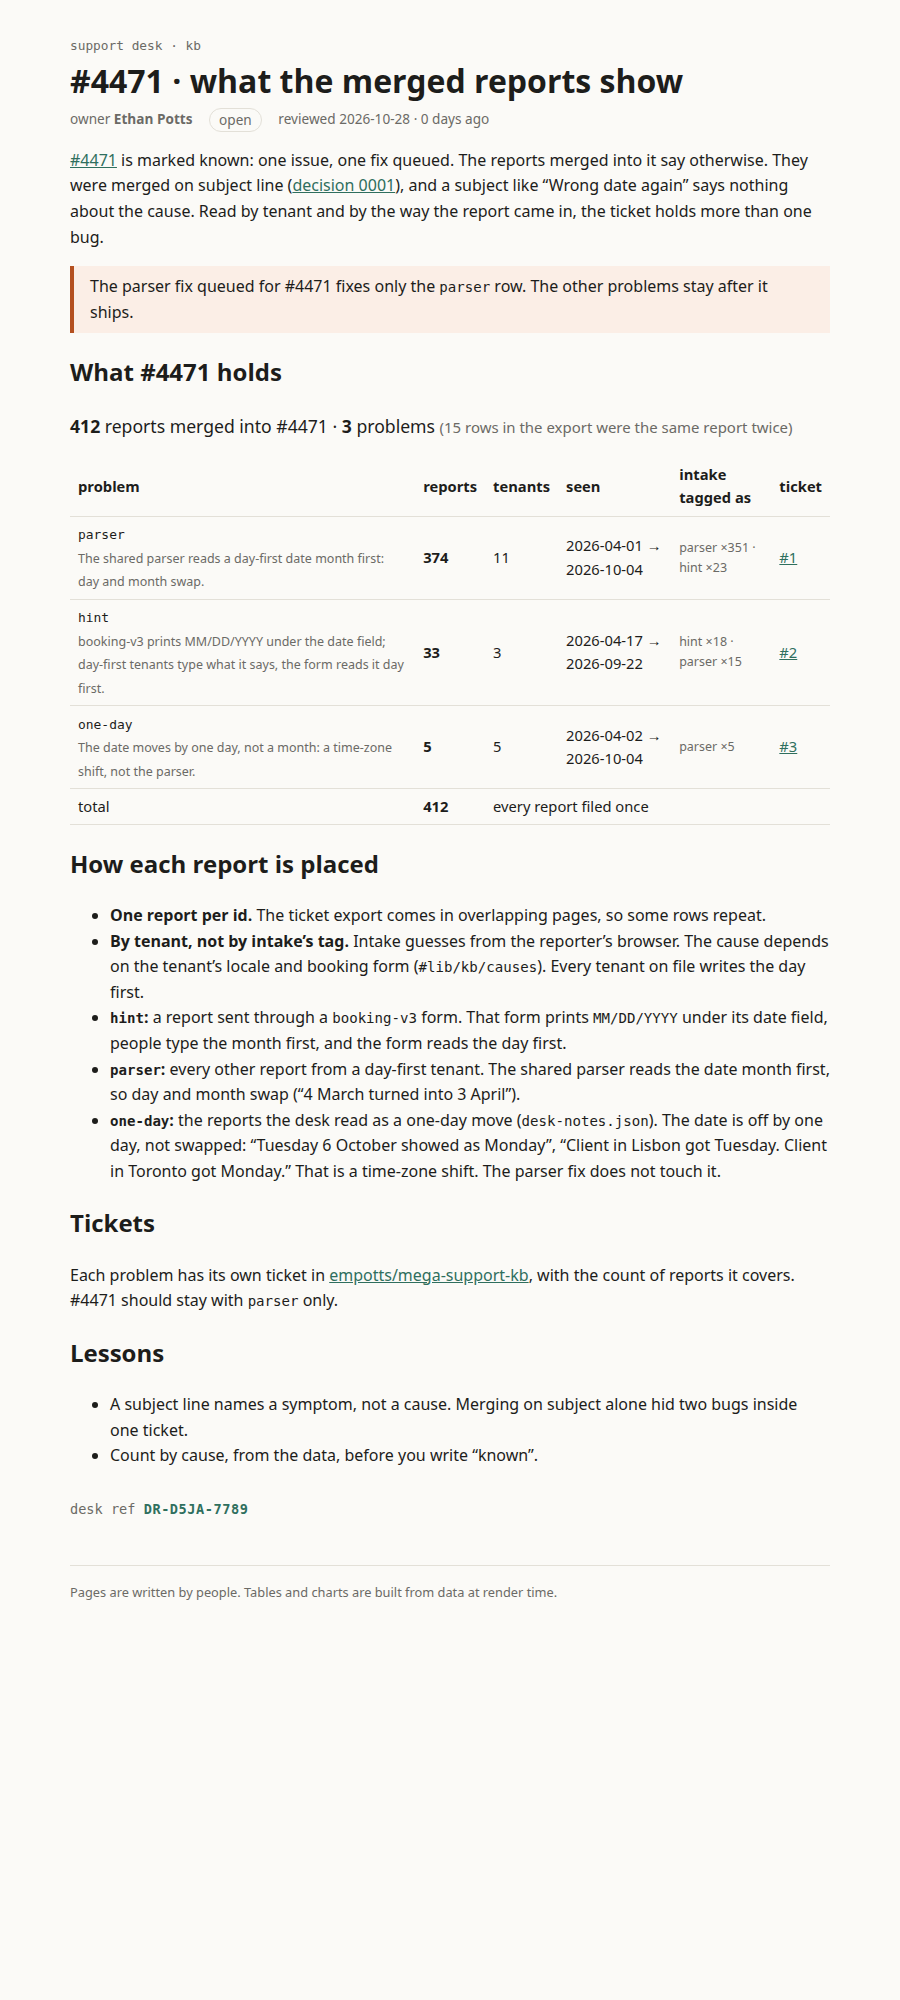
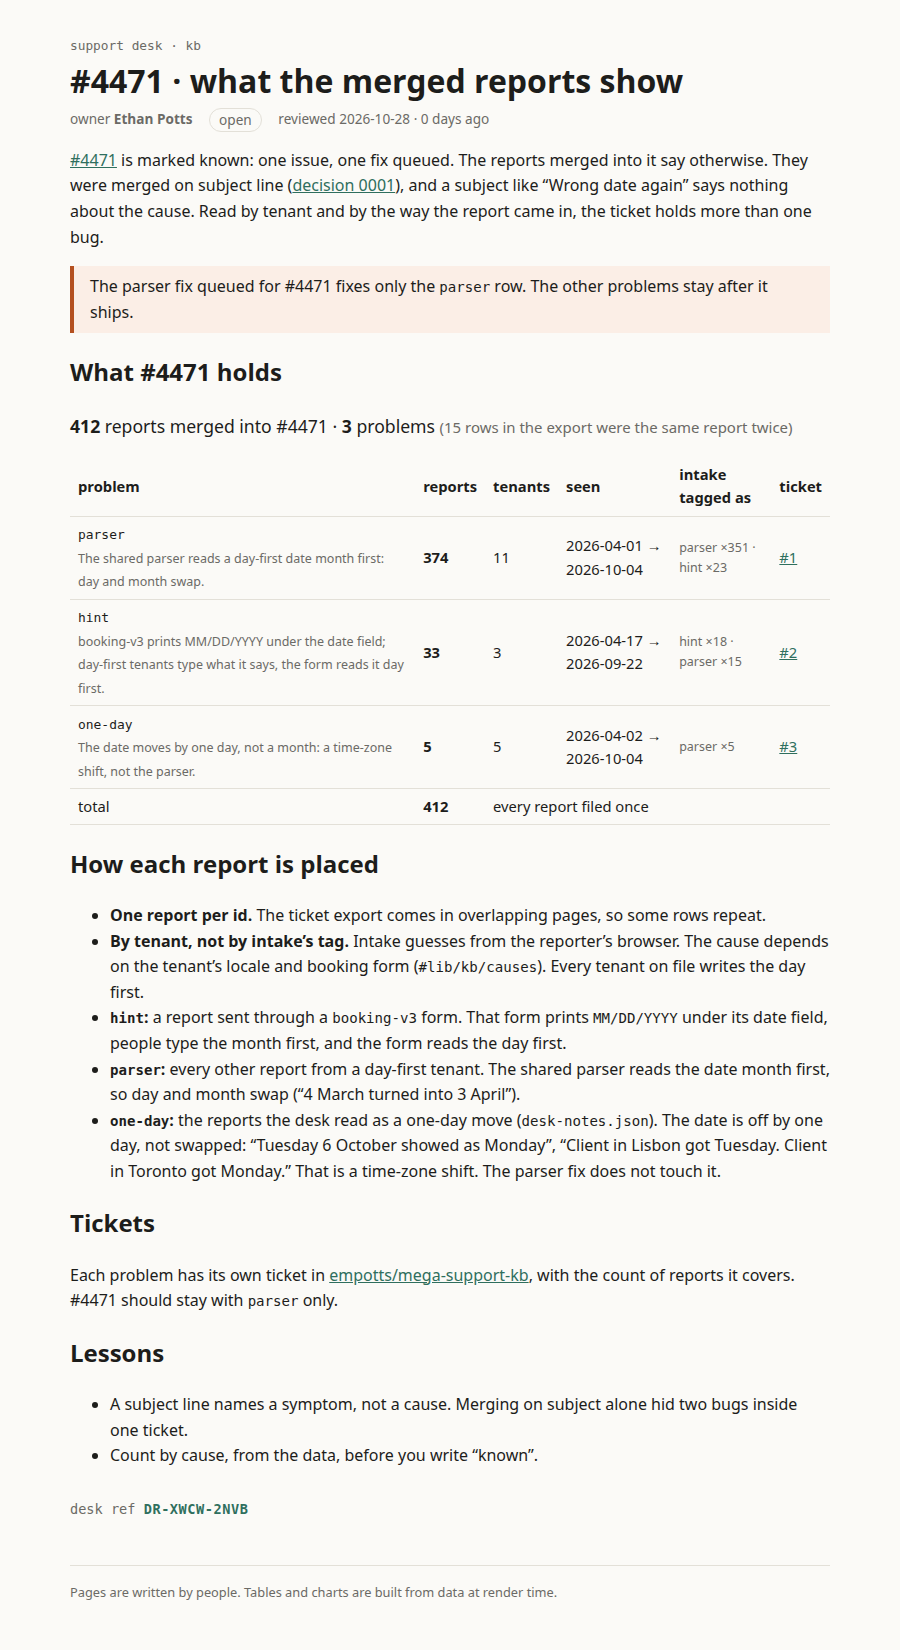
Sign the #4471 problems page with the repo owner's GitHub login

diff --git a/rendered/_app/immutable/chunks/DYkO_qRq.js b/rendered/_app/immutable/chunks/DYkO_qRq.js
@@ -1,0 +1,11 @@
+import{t as e}from"./DK3Fl9T5.js";import{E as t,F as n,H as r,I as i,K as a,L as o,N as s,R as c,S as l,T as u,U as d,W as f,_ as p,c as m,d as h,h as g,k as _,q as v,r as y,t as b,w as x}from"./BCPXOG7W.js";import{t as S}from"./BTPwLomz.js";import{n as C,t as w}from"./CVBzP17p.js";import{i as T,l as E,r as D,t as O}from"./BIy4WKJS.js";var k={parser:`The shared parser reads a day-first date month first: day and month swap.`,hint:`booking-v3 prints MM/DD/YYYY under the date field; day-first tenants type what it says, the form reads it day first.`,"one-day":`The date moves by one day, not a month: a time-zone shift, not the parser.`,unplaced:`No tenant on file, or a month-first tenant: no cause yet.`};function A(e,t){return t.includes(e.id)?`one-day`:T(e,D(e))??`unplaced`}function j(e,t,n){let r=new Map;for(let i of E(e).filter(e=>e.mergedInto===t)){let e=A(i,n);r.set(e,[...r.get(e)??[],i])}return[...r.entries()].map(([e,t])=>{let n=t.map(e=>e.receivedAt.slice(0,10)).sort();return{problem:e,reports:t,tenants:new Set(t.map(e=>e.tenant)).size,firstSeen:n[0],lastSeen:n[n.length-1],taggedAs:t.reduce((e,t)=>({...e,[t.meta.intakeTag]:(e[t.meta.intakeTag]??0)+1}),{})}}).sort((e,t)=>t.reports.length-e.reports.length)}var M={parser:1,hint:2,"one-day":3},N=t(`<a> </a>`),P=t(`<span class="none svelte-1op6c6">no ticket</span>`),F=t(`<tr><td><code> </code><br/><small class="svelte-1op6c6"> </small></td><td><strong> </strong></td><td> </td><td> </td><td class="tags svelte-1op6c6"> </td><td><!></td></tr>`),I=t(`<p class="sum svelte-1op6c6"><strong> </strong> <strong> </strong> <span class="dup svelte-1op6c6"> </span></p> <table><thead><tr><th>problem</th><th>reports</th><th>tenants</th><th>seen</th><th>intake tagged as</th><th>ticket</th></tr></thead><tbody></tbody><tfoot><tr><td>total</td><td><strong> </strong></td><td colspan="4"> </td></tr></tfoot></table>`,1);function L(e,t){f(t,!0);let a=r(()=>C),u=r(()=>E(_(a)).filter(e=>e.mergedInto===t.ticket)),y=r(()=>j(_(a),t.ticket,w.oneDayMove)),b=r(()=>_(y).reduce((e,t)=>e+t.reports.length,0)),S=e=>Object.entries(e.taggedAs).sort((e,t)=>t[1]-e[1]).map(([e,t])=>`${e} ×${t}`).join(` · `);var T=I(),D=i(T),O=n(D),A=o(O,!0),L=c(O),R=c(L),z=o(R,!0),B=c(R),V=c(B),H=o(V);v(D);var U=c(D,2),W=c(n(U));g(W,21,()=>_(y),e=>e.problem,(e,t)=>{let i=r(()=>M[_(t).problem]);var a=F(),u=n(a),d=n(u),f=o(d,!0),h=c(d,2),g=o(h,!0);v(u);var y=c(u),b=n(y),C=o(b,!0);v(y);var w=c(y),T=o(w,!0),E=c(w),D=o(E),O=c(E),A=o(O,!0),j=c(O),I=n(j),L=e=>{var t=N(),n=o(t);s(()=>{m(t,`href`,`https://github.com/empotts/mega-support-kb/issues/${_(i)??``}`),l(n,`#${_(i)??``}`)}),x(e,t)},R=e=>{var t=P();x(e,t)};p(I,e=>{_(i)?e(L):e(R,-1)}),v(j),v(a),s(e=>{l(f,_(t).problem),l(g,k[_(t).problem]),l(C,_(t).reports.length),l(T,_(t).tenants),l(D,`${_(t).firstSeen??``} → ${_(t).lastSeen??``}`),l(A,e)},[()=>S(_(t))]),x(e,a)}),v(W);var G=c(W),K=n(G),q=c(n(K)),J=n(q),Y=o(J,!0);v(q);var X=c(q);let Z;var Q=o(X,!0);v(K),v(G),v(U),s(()=>{l(A,_(u).length),l(L,` reports merged into #${t.ticket??``} · `),l(z,_(y).length),l(B,` ${_(y).length===1?`problem`:`problems`} `),l(H,`(${_(a).length-_(u).length} rows in the export were the same report twice)`),l(Y,_(b)),Z=h(X,1,`svelte-1op6c6`,null,Z,{none:_(b)!==_(u).length}),l(Q,_(b)===_(u).length?`every report filed once`:`${_(u).length-_(b)} reports missing`)}),x(e,T),d()}var R=`0123456789ABCDEFGHJKMNPQRSTVWXYZ`;function z(e,t){let n=t>>>0;for(let t=0;t<e.length;t++)n^=e.charCodeAt(t),n=Math.imul(n,16777619)>>>0;return n}function B(e){let t=e.trim(),n=z(t,2166136261),r=z(t,2654435769),i=BigInt(n)<<8n|BigInt(r&255),a=``;for(let e=0;e<8;e++)a=R[Number(i&31n)]+a,i>>=5n;return`DR-${a.slice(0,4)}-${a.slice(4)}`}var V=t(`<p class="stamp svelte-1280m42">desk ref <b class="svelte-1280m42"> </b></p>`),H=t(`<p class="stamp missing svelte-1280m42">no desk ref: this page isn't signed (no <code>signature</code> in its frontmatter)</p>`);function U(e,t){f(t,!0);let a=r(()=>t.signature?B(t.signature):null);var m=u(),h=i(m),g=e=>{var t=V(),r=c(n(t)),i=o(r,!0);v(t),s(()=>l(i,_(a))),x(e,t)},y=e=>{var t=H();x(e,t)};p(h,e=>{_(a)?e(g):e(y,-1)}),x(e,m),d()}var W=e({default:()=>$,metadata:()=>G}),G={layout:`runbook`,title:`#4471 · what the merged reports show`,owner:`Ethan Potts`,status:`open`,reviewed:`2026-10-28T00:00:00.000Z`,signature:`empotts`},{layout:K,title:q,owner:J,status:Y,reviewed:X,signature:Z}=G,Q=t(`The parser fix queued for #4471 fixes only the <code>parser</code> row. The other problems stay
+after it ships.`,1),ee=t(`<p><a href="/kb/incidents/4471">#4471</a> is marked known: one issue, one fix queued. The reports merged into it
+say otherwise. They were merged on subject line (<a href="/kb/decisions/0001-dedupe-by-subject">decision 0001</a>),
+and a subject like “Wrong date again” says nothing about the cause. Read by tenant and by the way the
+report came in, the ticket holds more than one bug.</p> <!> <h2>What #4471 holds</h2> <!> <h2>How each report is placed</h2> <ul><li><strong>One report per id.</strong> The ticket export comes in overlapping pages, so some rows repeat.</li> <li><strong>By tenant, not by intake’s tag.</strong> Intake guesses from the reporter’s browser. The cause depends
+on the tenant’s locale and booking form (<code>#lib/kb/causes</code>). Every tenant on file writes the day first.</li> <li><strong><code>hint</code>:</strong> a report sent through a <code>booking-v3</code> form. That form prints <code>MM/DD/YYYY</code> under its
+date field, people type the month first, and the form reads the day first.</li> <li><strong><code>parser</code>:</strong> every other report from a day-first tenant. The shared parser reads the date month
+first, so day and month swap (“4 March turned into 3 April”).</li> <li><strong><code>one-day</code>:</strong> the reports the desk read as a one-day move (<code>desk-notes.json</code>). The date is off by
+one day, not swapped: “Tuesday 6 October showed as Monday”, “Client in Lisbon got Tuesday. Client
+in Toronto got Monday.” That is a time-zone shift. The parser fix does not touch it.</li></ul> <h2>Tickets</h2> <p>Each problem has its own ticket in <a href="https://github.com/empotts/mega-support-kb/issues" rel="nofollow">empotts/mega-support-kb</a>,
+with the count of reports it covers. #4471 should stay with <code>parser</code> only.</p> <h2>Lessons</h2> <ul><li>A subject line names a symptom, not a cause. Merging on subject alone hid two bugs inside one ticket.</li> <li>Count by cause, from the data, before you write “known”.</li></ul> <!>`,1);function $(e,t){let n=b(t,[`children`,`$$slots`,`$$events`,`$$legacy`]);S(e,y(()=>n,()=>G,{children:(e,t)=>{var n=ee(),r=c(i(n),2);O(r,{kind:`warn`,children:(e,t)=>{a();var n=Q();a(2),x(e,n)},$$slots:{default:!0}});var o=c(r,4);L(o,{ticket:4471}),U(c(o,14),{get signature(){return Z}}),x(e,n)},$$slots:{default:!0}}))}export{$ as n,W as t};

diff --git a/rendered/kb/incidents/4471-problems.html b/rendered/kb/incidents/4471-problems.html
@@ -11,11 +11,11 @@
 		<link href="../../_app/immutable/chunks/Dek69VGa.js" rel="modulepreload">
 		<link href="../../_app/immutable/chunks/8Cldv7_F.js" rel="modulepreload">
 		<link href="../../_app/immutable/chunks/Cg3pm-K7.js" rel="modulepreload">
-		<link href="../../_app/immutable/entry/app.CpHySrE1.js" rel="modulepreload">
+		<link href="../../_app/immutable/entry/app.BVk-nxTU.js" rel="modulepreload">
 		<link href="../../_app/immutable/nodes/0.C9KfiiPz.js" rel="modulepreload">
 		<link href="../../_app/immutable/chunks/DK3Fl9T5.js" rel="modulepreload">
-		<link href="../../_app/immutable/nodes/6.BWVnTNaD.js" rel="modulepreload">
-		<link href="../../_app/immutable/chunks/r9ZojTQG.js" rel="modulepreload">
+		<link href="../../_app/immutable/nodes/6.BXMxKEzg.js" rel="modulepreload">
+		<link href="../../_app/immutable/chunks/DYkO_qRq.js" rel="modulepreload">
 		<link href="../../_app/immutable/chunks/BTPwLomz.js" rel="modulepreload">
 		<link href="../../_app/immutable/chunks/CVBzP17p.js" rel="modulepreload">
 		<link href="../../_app/immutable/chunks/BIy4WKJS.js" rel="modulepreload">
@@ -35,20 +35,20 @@ date field, people type the month first, and the form reads the day first.</li> 
 first, so day and month swap (“4 March turned into 3 April”).</li> <li><strong><code>one-day</code>:</strong> the reports the desk read as a one-day move (<code>desk-notes.json</code>). The date is off by
 one day, not swapped: “Tuesday 6 October showed as Monday”, “Client in Lisbon got Tuesday. Client
 in Toronto got Monday.” That is a time-zone shift. The parser fix does not touch it.</li></ul> <h2>Tickets</h2> <p>Each problem has its own ticket in <a href="https://github.com/empotts/mega-support-kb/issues" rel="nofollow">empotts/mega-support-kb</a>,
-with the count of reports it covers. #4471 should stay with <code>parser</code> only.</p> <h2>Lessons</h2> <ul><li>A subject line names a symptom, not a cause. Merging on subject alone hid two bugs inside one ticket.</li> <li>Count by cause, from the data, before you write “known”.</li></ul> <!--[0--><p class="stamp svelte-1280m42">desk ref <b class="svelte-1280m42">DR-D5JA-7789</b></p><!--]--><!----><!----></main> <footer class="svelte-e2jw2j">Pages are written by people. Tables and charts are built from data at render time.</footer></div><!--]--><!--]--><!--]--><!----><!--]--><!--]--><!--]--><!----> <!--[-1--><!--]--><!--]-->
+with the count of reports it covers. #4471 should stay with <code>parser</code> only.</p> <h2>Lessons</h2> <ul><li>A subject line names a symptom, not a cause. Merging on subject alone hid two bugs inside one ticket.</li> <li>Count by cause, from the data, before you write “known”.</li></ul> <!--[0--><p class="stamp svelte-1280m42">desk ref <b class="svelte-1280m42">DR-XWCW-2NVB</b></p><!--]--><!----><!----></main> <footer class="svelte-e2jw2j">Pages are written by people. Tables and charts are built from data at render time.</footer></div><!--]--><!--]--><!--]--><!----><!--]--><!--]--><!--]--><!----> <!--[-1--><!--]--><!--]-->
 			
 			<script>
 				{
-					__sveltekit_o9qarf = {
+					__sveltekit_idelb3 = {
 						base: new URL("../..", location).pathname.slice(0, -1),
-						version: "1793164941519"
+						version: "1793165051231"
 					};
 
 					const element = document.currentScript.parentElement;
 
 					import("../../_app/immutable/entry/start.B795J-Jn.js").then(async (kit) => {
-						kit.init(__sveltekit_o9qarf);
-						const app = await import("../../_app/immutable/entry/app.CpHySrE1.js");
+						kit.init(__sveltekit_idelb3);
+						const app = await import("../../_app/immutable/entry/app.BVk-nxTU.js");
 						kit.start(app, element, {
 							node_ids: [0, 6],
 							data: [null,null],

diff --git a/rendered/_app/immutable/entry/app.BVk-nxTU.js b/rendered/_app/immutable/entry/app.BVk-nxTU.js
@@ -1,0 +1,2 @@
+const __vite__mapDeps=(i,m=__vite__mapDeps,d=(m.f||(m.f=["../nodes/0.C9KfiiPz.js","../chunks/DK3Fl9T5.js","../chunks/BCPXOG7W.js","../nodes/1.YvnBx2JG.js","../chunks/8Cldv7_F.js","./payload.DSmR2FwN.js","../chunks/Dek69VGa.js","../nodes/2.CRWkCUU4.js","../chunks/Cg3pm-K7.js","../nodes/3.P6pfWO1j.js","../chunks/BTPwLomz.js","../assets/runbook.COyw0cbZ.css","../chunks/YX22L_Ud.js","../chunks/CgeRC4yK.js","../chunks/CVBzP17p.js","../chunks/BIy4WKJS.js","../assets/Callout.AbLv9dM_.css","../assets/_page.D56XP2ro.css","../chunks/DYkO_qRq.js","../assets/_page.DeeSPHpo.css","../chunks/BGqJVSDw.js","../assets/_page.DO6Yid7X.css","../assets/3.Bt0MwIZg.css","../nodes/4.DRxPfvn3.js","../nodes/5.rt2PfD_4.js","../nodes/6.BXMxKEzg.js","../nodes/7.sFtxrtyV.js"])))=>i.map(i=>d[i]);
+import{t as e}from"../chunks/CRzLMJPS.js";var t={},n=[()=>e(()=>import(`../nodes/0.C9KfiiPz.js`),__vite__mapDeps([0,1,2]),import.meta.url),()=>e(()=>import(`../nodes/1.YvnBx2JG.js`),__vite__mapDeps([3,2,4,5,6]),import.meta.url),()=>e(()=>import(`../nodes/2.CRWkCUU4.js`),__vite__mapDeps([7,1,6,8]),import.meta.url),()=>e(()=>import(`../nodes/3.P6pfWO1j.js`),__vite__mapDeps([9,2,10,11,12,1,13,14,15,16,17,18,19,20,21,22]),import.meta.url),()=>e(()=>import(`../nodes/4.DRxPfvn3.js`),__vite__mapDeps([23,12,1,2,10,11]),import.meta.url),()=>e(()=>import(`../nodes/5.rt2PfD_4.js`),__vite__mapDeps([24,13,1,2,10,11,14,15,16,17]),import.meta.url),()=>e(()=>import(`../nodes/6.BXMxKEzg.js`),__vite__mapDeps([25,18,1,2,10,11,14,15,16,19]),import.meta.url),()=>e(()=>import(`../nodes/7.sFtxrtyV.js`),__vite__mapDeps([26,20,1,2,10,11,15,16,21]),import.meta.url)],r=[],i={"/":[2],"/kb":[3],"/kb/decisions/0001-dedupe-by-subject":[4],"/kb/incidents/4471-problems":[6],"/kb/incidents/4471":[5],"/kb/triage/dedupe":[7]},a={handleError:(({kind:e,error:t})=>{e===`unknown`&&console.error(t)}),reroute:(()=>{}),transport:{}},o=Object.fromEntries(Object.entries(a.transport).map(([e,t])=>[e,t.decode])),s=Object.fromEntries(Object.entries(a.transport).map(([e,t])=>[e,t.encode])),c=!1,l=(e,t)=>o[e](t),u=()=>e(()=>import(`../chunks/Bjy-W4x2.js`).then(e=>e.default),[],import.meta.url);export{l as decode,o as decoders,i as dictionary,s as encoders,u as get_error_template,c as hash,a as hooks,t as matchers,n as nodes,r as server_loads};

diff --git a/rendered/_app/immutable/nodes/3.P6pfWO1j.js b/rendered/_app/immutable/nodes/3.P6pfWO1j.js
@@ -1,0 +1,2 @@
+import{E as e,F as t,I as n,K as r,L as i,N as a,R as o,S as s,U as c,W as l,c as u,d,h as f,i as p,k as m,q as h,r as g,t as _,w as v}from"../chunks/BCPXOG7W.js";import{n as y,r as b,t as x}from"../chunks/BTPwLomz.js";import{t as S}from"../chunks/YX22L_Ud.js";import{t as C}from"../chunks/CgeRC4yK.js";import{t as w}from"../chunks/DYkO_qRq.js";import{t as T}from"../chunks/BGqJVSDw.js";var E=e(`<tr><td><a> </a></td><td> </td><td> </td><td> </td></tr>`),D=e(`<table><thead><tr><th>page</th><th>owner</th><th>status</th><th>reviewed</th></tr></thead><tbody></tbody></table>`);function O(e,n){l(n,!1);let r=Object.entries(Object.assign({"/src/routes/kb/decisions/0001-dedupe-by-subject/+page.svx":S,"/src/routes/kb/incidents/4471/+page.svx":C,"/src/routes/kb/incidents/4471-problems/+page.svx":w,"/src/routes/kb/triage/dedupe/+page.svx":T})).map(([e,t])=>({href:e.replace(`/src/routes`,``).replace(`/+page.svx`,``),...t.metadata})).sort((e,t)=>e.href.localeCompare(t.href));p();var g=D(),_=o(t(g));f(_,5,()=>r,e=>e.href,(e,n)=>{var r=E(),c=t(r),l=t(c),f=i(l,!0);h(c);var p=o(c),g=i(p,!0),_=o(p),x=i(_,!0),S=o(_);let C;var w=i(S,!0);h(r),a((e,t)=>{u(l,`href`,m(n).href),s(f,m(n).title),s(g,m(n).owner),s(x,m(n).status),C=d(S,1,`svelte-tbc1ha`,null,C,{stale:e}),s(w,t)},[()=>y(m(n).reviewed)>180,()=>b(m(n).reviewed)]),v(e,r)}),h(_),h(g),v(e,g),c()}var k={layout:`runbook`,title:`Support knowledge base`,owner:`support desk`,status:`living`,reviewed:`2026-09-28T00:00:00.000Z`},{layout:A,title:j,owner:M,status:N,reviewed:P}=k,F=e(`<p>What the support desk knows, kept next to the code that knows it. One desk, every product: <code>sched-prod</code> (calendar invites for about 300k people) and the rest. When something breaks, the reports land here first.</p> <p>Start with <a href="/kb/triage/dedupe">triage</a> if you are new on the desk.</p> <h2>Pages</h2> <!> <h2>Writing a page</h2> <p>Keep the words here and the logic in <code>src/lib</code>. A number that can be computed should be
+computed by a component, not typed into a paragraph.</p>`,1);function I(e,t){let i=_(t,[`children`,`$$slots`,`$$events`,`$$legacy`]);x(e,g(()=>i,()=>k,{children:(e,t)=>{var i=F();O(o(n(i),6),{}),r(4),v(e,i)},$$slots:{default:!0}}))}export{I as component};

diff --git a/rendered/kb.html b/rendered/kb.html
@@ -11,16 +11,16 @@
 		<link href="./_app/immutable/chunks/Dek69VGa.js" rel="modulepreload">
 		<link href="./_app/immutable/chunks/8Cldv7_F.js" rel="modulepreload">
 		<link href="./_app/immutable/chunks/Cg3pm-K7.js" rel="modulepreload">
-		<link href="./_app/immutable/entry/app.CpHySrE1.js" rel="modulepreload">
+		<link href="./_app/immutable/entry/app.BVk-nxTU.js" rel="modulepreload">
 		<link href="./_app/immutable/nodes/0.C9KfiiPz.js" rel="modulepreload">
 		<link href="./_app/immutable/chunks/DK3Fl9T5.js" rel="modulepreload">
-		<link href="./_app/immutable/nodes/3.D148B8ve.js" rel="modulepreload">
+		<link href="./_app/immutable/nodes/3.P6pfWO1j.js" rel="modulepreload">
 		<link href="./_app/immutable/chunks/BTPwLomz.js" rel="modulepreload">
 		<link href="./_app/immutable/chunks/YX22L_Ud.js" rel="modulepreload">
 		<link href="./_app/immutable/chunks/CgeRC4yK.js" rel="modulepreload">
 		<link href="./_app/immutable/chunks/CVBzP17p.js" rel="modulepreload">
 		<link href="./_app/immutable/chunks/BIy4WKJS.js" rel="modulepreload">
-		<link href="./_app/immutable/chunks/r9ZojTQG.js" rel="modulepreload">
+		<link href="./_app/immutable/chunks/DYkO_qRq.js" rel="modulepreload">
 		<link href="./_app/immutable/chunks/BGqJVSDw.js" rel="modulepreload">
 		<!--e2jw2j--><!----><title>Support knowledge base · support kb</title>
 		<link href="./_app/immutable/assets/runbook.COyw0cbZ.css" rel="stylesheet">
@@ -36,16 +36,16 @@ computed by a component, not typed into a paragraph.</p><!----></main> <footer c
 			
 			<script>
 				{
-					__sveltekit_o9qarf = {
+					__sveltekit_idelb3 = {
 						base: new URL(".", location).pathname.slice(0, -1),
-						version: "1793164941519"
+						version: "1793165051231"
 					};
 
 					const element = document.currentScript.parentElement;
 
 					import("./_app/immutable/entry/start.B795J-Jn.js").then(async (kit) => {
-						kit.init(__sveltekit_o9qarf);
-						const app = await import("./_app/immutable/entry/app.CpHySrE1.js");
+						kit.init(__sveltekit_idelb3);
+						const app = await import("./_app/immutable/entry/app.BVk-nxTU.js");
 						kit.start(app, element, {
 							node_ids: [0, 3],
 							data: [null,null],

diff --git a/rendered/kb/decisions/0001-dedupe-by-subject.html b/rendered/kb/decisions/0001-dedupe-by-subject.html
@@ -11,7 +11,7 @@
 		<link href="../../_app/immutable/chunks/Dek69VGa.js" rel="modulepreload">
 		<link href="../../_app/immutable/chunks/8Cldv7_F.js" rel="modulepreload">
 		<link href="../../_app/immutable/chunks/Cg3pm-K7.js" rel="modulepreload">
-		<link href="../../_app/immutable/entry/app.CpHySrE1.js" rel="modulepreload">
+		<link href="../../_app/immutable/entry/app.BVk-nxTU.js" rel="modulepreload">
 		<link href="../../_app/immutable/nodes/0.C9KfiiPz.js" rel="modulepreload">
 		<link href="../../_app/immutable/chunks/DK3Fl9T5.js" rel="modulepreload">
 		<link href="../../_app/immutable/nodes/4.DRxPfvn3.js" rel="modulepreload">
@@ -28,16 +28,16 @@ engineering merges them later.</li></ul><!----></main> <footer class="svelte-e2j
 			
 			<script>
 				{
-					__sveltekit_o9qarf = {
+					__sveltekit_idelb3 = {
 						base: new URL("../..", location).pathname.slice(0, -1),
-						version: "1793164941519"
+						version: "1793165051231"
 					};
 
 					const element = document.currentScript.parentElement;
 
 					import("../../_app/immutable/entry/start.B795J-Jn.js").then(async (kit) => {
-						kit.init(__sveltekit_o9qarf);
-						const app = await import("../../_app/immutable/entry/app.CpHySrE1.js");
+						kit.init(__sveltekit_idelb3);
+						const app = await import("../../_app/immutable/entry/app.BVk-nxTU.js");
 						kit.start(app, element, {
 							node_ids: [0, 4],
 							data: [null,null],

diff --git a/rendered/kb/incidents/4471.html b/rendered/kb/incidents/4471.html
@@ -11,7 +11,7 @@
 		<link href="../../_app/immutable/chunks/Dek69VGa.js" rel="modulepreload">
 		<link href="../../_app/immutable/chunks/8Cldv7_F.js" rel="modulepreload">
 		<link href="../../_app/immutable/chunks/Cg3pm-K7.js" rel="modulepreload">
-		<link href="../../_app/immutable/entry/app.CpHySrE1.js" rel="modulepreload">
+		<link href="../../_app/immutable/entry/app.BVk-nxTU.js" rel="modulepreload">
 		<link href="../../_app/immutable/nodes/0.C9KfiiPz.js" rel="modulepreload">
 		<link href="../../_app/immutable/chunks/DK3Fl9T5.js" rel="modulepreload">
 		<link href="../../_app/immutable/nodes/5.rt2PfD_4.js" rel="modulepreload">
@@ -31,16 +31,16 @@ first. The fix is queued.</p> <aside class="note svelte-17bri61"><!---->Known. O
 			
 			<script>
 				{
-					__sveltekit_o9qarf = {
+					__sveltekit_idelb3 = {
 						base: new URL("../..", location).pathname.slice(0, -1),
-						version: "1793164941519"
+						version: "1793165051231"
 					};
 
 					const element = document.currentScript.parentElement;
 
 					import("../../_app/immutable/entry/start.B795J-Jn.js").then(async (kit) => {
-						kit.init(__sveltekit_o9qarf);
-						const app = await import("../../_app/immutable/entry/app.CpHySrE1.js");
+						kit.init(__sveltekit_idelb3);
+						const app = await import("../../_app/immutable/entry/app.BVk-nxTU.js");
 						kit.start(app, element, {
 							node_ids: [0, 5],
 							data: [null,null],

diff --git a/rendered/kb/triage/dedupe.html b/rendered/kb/triage/dedupe.html
@@ -11,7 +11,7 @@
 		<link href="../../_app/immutable/chunks/Dek69VGa.js" rel="modulepreload">
 		<link href="../../_app/immutable/chunks/8Cldv7_F.js" rel="modulepreload">
 		<link href="../../_app/immutable/chunks/Cg3pm-K7.js" rel="modulepreload">
-		<link href="../../_app/immutable/entry/app.CpHySrE1.js" rel="modulepreload">
+		<link href="../../_app/immutable/entry/app.BVk-nxTU.js" rel="modulepreload">
 		<link href="../../_app/immutable/nodes/0.C9KfiiPz.js" rel="modulepreload">
 		<link href="../../_app/immutable/chunks/DK3Fl9T5.js" rel="modulepreload">
 		<link href="../../_app/immutable/nodes/7.sFtxrtyV.js" rel="modulepreload">
@@ -31,16 +31,16 @@ anything else.<!----></aside><!----> <h2>Try it</h2> <div class="try svelte-gq0h
 			
 			<script>
 				{
-					__sveltekit_o9qarf = {
+					__sveltekit_idelb3 = {
 						base: new URL("../..", location).pathname.slice(0, -1),
-						version: "1793164941519"
+						version: "1793165051231"
 					};
 
 					const element = document.currentScript.parentElement;
 
 					import("../../_app/immutable/entry/start.B795J-Jn.js").then(async (kit) => {
-						kit.init(__sveltekit_o9qarf);
-						const app = await import("../../_app/immutable/entry/app.CpHySrE1.js");
+						kit.init(__sveltekit_idelb3);
+						const app = await import("../../_app/immutable/entry/app.BVk-nxTU.js");
 						kit.start(app, element, {
 							node_ids: [0, 7],
 							data: [null,null],

diff --git a/rendered/_app/immutable/nodes/6.BXMxKEzg.js b/rendered/_app/immutable/nodes/6.BXMxKEzg.js
@@ -1,0 +1,1 @@
+export{n as component}from"../chunks/DYkO_qRq.js";
